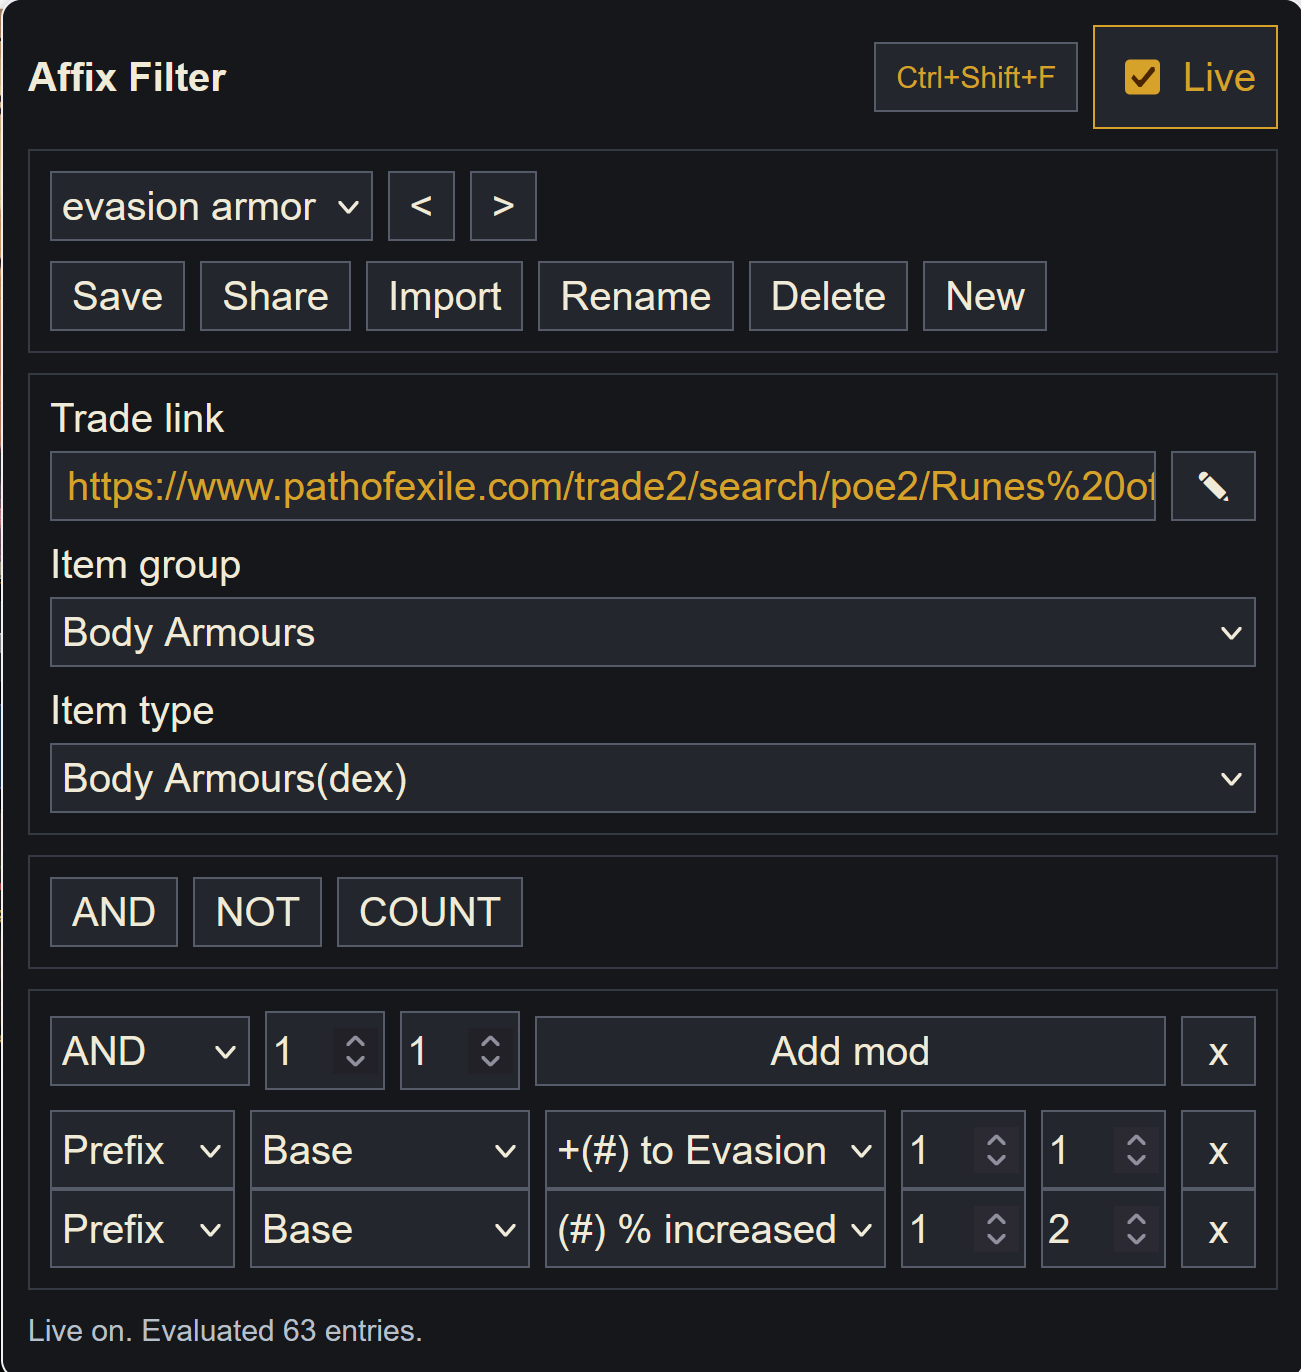
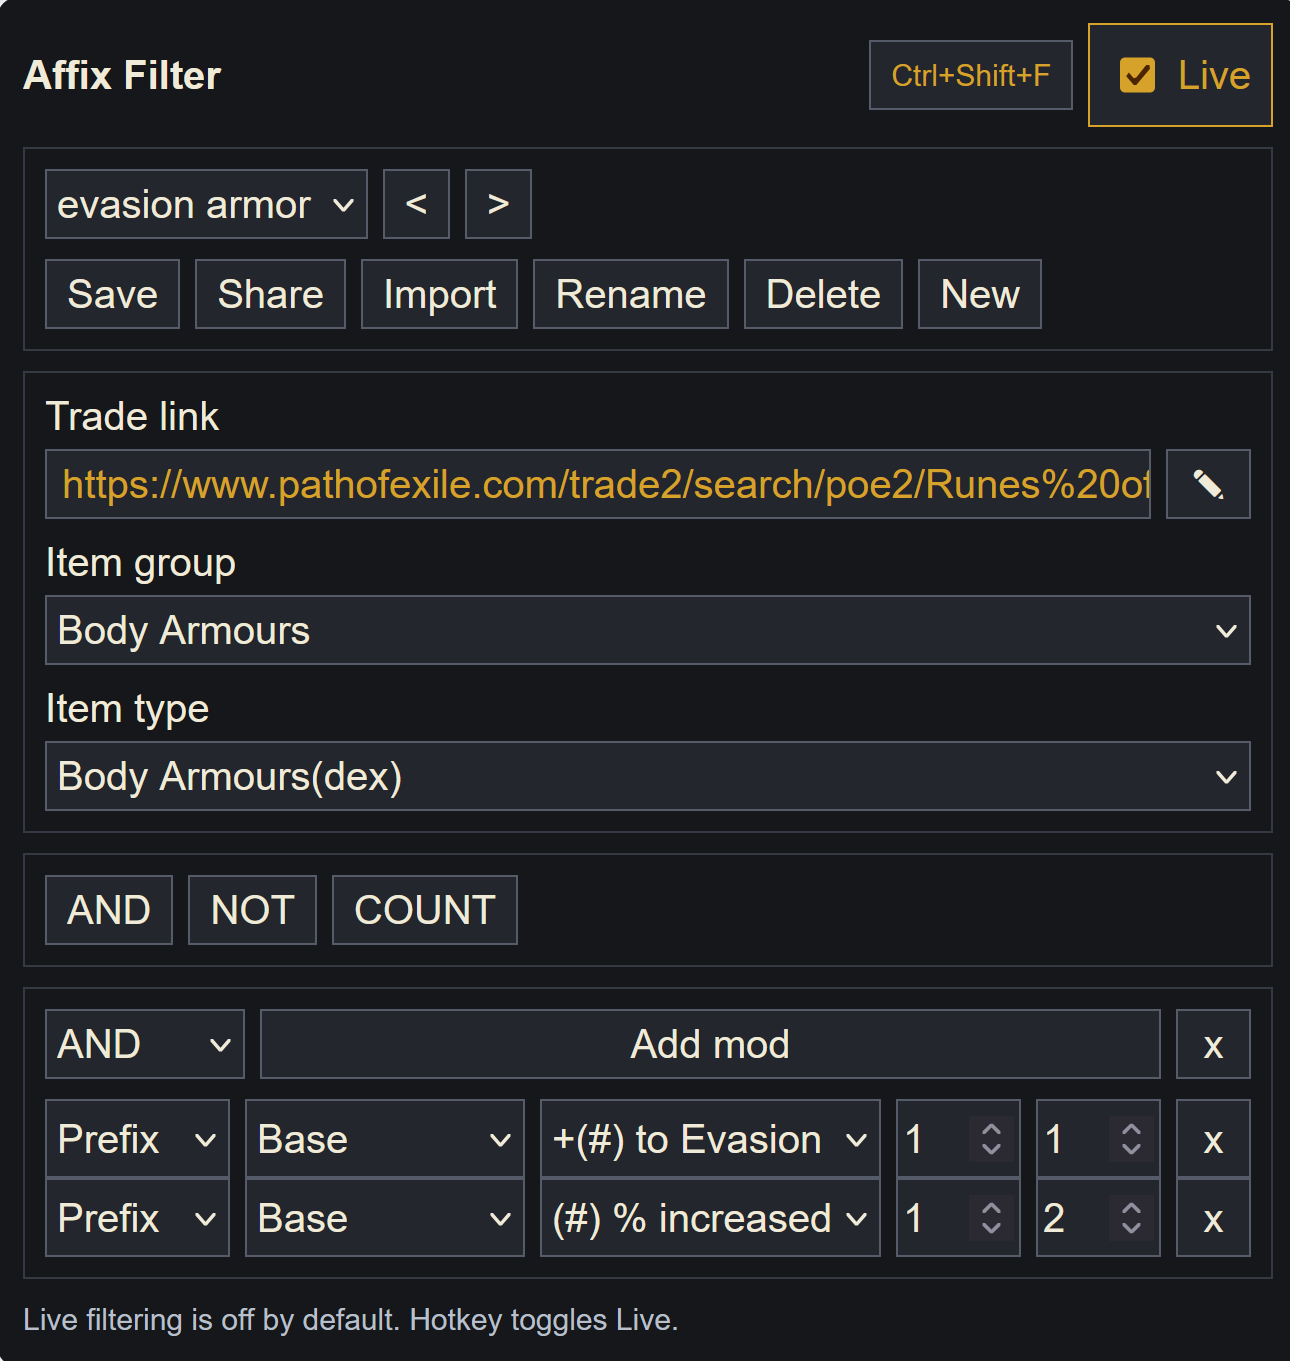
Simplify count group threshold

diff --git a/src/shared/profile-store.js b/src/shared/profile-store.js
@@ -22,6 +22,30 @@
     };
   }
 
+  function normalizeFilter(filter) {
+    const next = filter ? clone(filter) : createEmptyFilter();
+    next.subtypeKey = String(next.subtypeKey || '');
+    next.groups = Array.isArray(next.groups) ? next.groups : [];
+
+    next.groups = next.groups.map((group) => {
+      const normalized = { ...group };
+      normalized.rules = Array.isArray(group?.rules) ? group.rules : [];
+
+      if (String(normalized.type || 'and').toLowerCase() === 'count') {
+        normalized.type = 'count';
+        normalized.count = Number(normalized.count ?? normalized.min ?? 1);
+      } else {
+        delete normalized.count;
+      }
+
+      delete normalized.min;
+      delete normalized.max;
+      return normalized;
+    });
+
+    return next;
+  }
+
   function normalizeTradeLink(value) {
     return String(value || '').trim();
   }
@@ -46,7 +70,7 @@
     return {
       id: String(profile?.id || ''),
       name: String(profile?.name || 'Unnamed profile').trim() || 'Unnamed profile',
-      filter: profile?.filter ? clone(profile.filter) : createEmptyFilter(),
+      filter: normalizeFilter(profile?.filter),
       tradeLink: normalizeTradeLink(profile?.tradeLink),
       updatedAt: String(profile?.updatedAt || ''),
     };
@@ -60,7 +84,7 @@
     return {
       profiles,
       currentProfileId,
-      currentFilter: state?.currentFilter ? clone(state.currentFilter) : createEmptyFilter(),
+      currentFilter: normalizeFilter(state?.currentFilter),
       currentTradeLink: normalizeTradeLink(hasCurrentTradeLink ? state.currentTradeLink : currentProfile?.tradeLink),
       liveEnabled: Boolean(state?.liveEnabled),
     };
@@ -105,7 +129,7 @@
     const profile = {
       id: existing?.id || profileIdForName(profileName, next.profiles),
       name: profileName,
-      filter: clone(filter || next.currentFilter || createEmptyFilter()),
+      filter: normalizeFilter(filter || next.currentFilter),
       tradeLink: normalizeTradeLink(arguments.length >= 4 ? tradeLink : next.currentTradeLink),
       updatedAt: new Date().toISOString(),
     };
@@ -228,7 +252,7 @@
       version: 1,
       name: currentProfile?.name || 'Unsaved filter',
       tradeLink: next.currentTradeLink,
-      filter: clone(next.currentFilter || createEmptyFilter()),
+      filter: normalizeFilter(next.currentFilter),
     };
     return `${SHARE_PREFIX}${base64UrlEncode(JSON.stringify(payload))}`;
   }
@@ -247,7 +271,7 @@
     return {
       name: String(payload.name || 'Imported profile').trim() || 'Imported profile',
       tradeLink: normalizeTradeLink(payload.tradeLink),
-      filter: clone(payload.filter),
+      filter: normalizeFilter(payload.filter),
     };
   }
 

diff --git a/src/popup.js b/src/popup.js
@@ -253,8 +253,7 @@
     }
 
     return `
-          <input data-action="group-min" type="number" min="0" value="${Number(group.min ?? 1)}" title="Count min">
-          <input data-action="group-max" type="number" min="0" value="${Number(group.max ?? 1)}" title="Count max">`;
+          <input data-action="group-count" type="number" min="0" value="${Number(group.count ?? group.min ?? 1)}" title="Required count">`;
   }
 
   function renderGroups() {
@@ -275,7 +274,7 @@
       groupNode.className = 'group';
       groupNode.dataset.groupId = group.id;
       groupNode.innerHTML = `
-        <div class="group-header">
+        <div class="group-header" data-group-type="${group.type}">
           <select data-action="group-type">
             <option value="and">AND</option>
             <option value="not">NOT</option>
@@ -362,8 +361,7 @@
       filter.groups.push({
         id: id(),
         type,
-        min: type === 'count' ? 1 : undefined,
-        max: type === 'count' ? 1 : undefined,
+        count: type === 'count' ? 1 : undefined,
         rules: [],
       });
     });
@@ -604,22 +602,21 @@
       const action = event.target.dataset.action;
       if (!groupNode || !action) return;
 
-      if (action === 'group-type' || action === 'group-min' || action === 'group-max') {
+      if (action === 'group-type' || action === 'group-count') {
         mutateFilter((filter) => {
           const group = findGroup(filter, groupNode.dataset.groupId);
           if (!group) return;
           if (action === 'group-type') {
             group.type = event.target.value;
             if (group.type === 'count') {
-              group.min = Number(group.min ?? 1);
-              group.max = Number(group.max ?? 1);
+              group.count = Number(group.count ?? group.min ?? 1);
             } else {
-              delete group.min;
-              delete group.max;
+              delete group.count;
             }
+            delete group.min;
+            delete group.max;
           }
-          if (action === 'group-min') group.min = Number(event.target.value);
-          if (action === 'group-max') group.max = Number(event.target.value);
+          if (action === 'group-count') group.count = Number(event.target.value);
         });
       }
 

diff --git a/src/popup.css b/src/popup.css
@@ -209,27 +209,18 @@ label {
 
 .group-header {
   align-items: center;
-  display: flex;
+  display: grid;
   gap: 6px;
+  grid-template-columns: 80px minmax(86px, 1fr) 30px;
 }
 
-.group-header select {
-  flex: 0 0 80px;
-  min-width: 0;
+.group-header[data-group-type="count"] {
+  grid-template-columns: 80px 48px 1fr 30px;
 }
 
+.group-header select,
 .group-header input {
-  flex: 0 0 48px;
   min-width: 0;
-}
-
-.group-header [data-action="add-rule"] {
-  flex: 1 1 auto;
-  min-width: 86px;
-}
-
-.group-header [data-action="remove-group"] {
-  flex: 0 0 30px;
 }
 
 .rule select {

diff --git a/src/shared/rule-engine.js b/src/shared/rule-engine.js
@@ -111,10 +111,10 @@
 
     if (type === 'count') {
       const matchedCount = matches.filter(Boolean).length;
-      const min = Number(group.min || 0);
-      const max = Number(group.max ?? rules.length);
+      const requestedCount = Number(group.count ?? group.min ?? 0);
+      const requiredCount = Math.min(requestedCount, rules.length);
       return {
-        passed: matchedCount >= min && matchedCount <= max,
+        passed: matchedCount >= requiredCount,
         matchedCount,
         matches,
       };

diff --git a/README.md b/README.md
@@ -46,9 +46,9 @@ The active filter is a global AND over one-level groups.
 
 - `AND`: every child mod rule must match.
 - `NOT`: every child mod rule must be false.
-- `COUNT(min,max)`: counts true child mod rules and passes when the count is within the inclusive range.
+- `COUNT(N)`: counts true child mod rules and passes when at least `N` rules match. If `N` is higher than the number of child rules, all child rules must match.
 
-There is no separate OR group. Use `COUNT(1, M)` for OR behavior.
+There is no separate OR group. Use `COUNT(1)` for OR behavior.
 
 Each child mod rule is boolean. A tier range expands to the allowed affix names for that mod family and item type. If the item has any allowed affix name, that rule contributes `1`; otherwise it contributes `0`.
 
